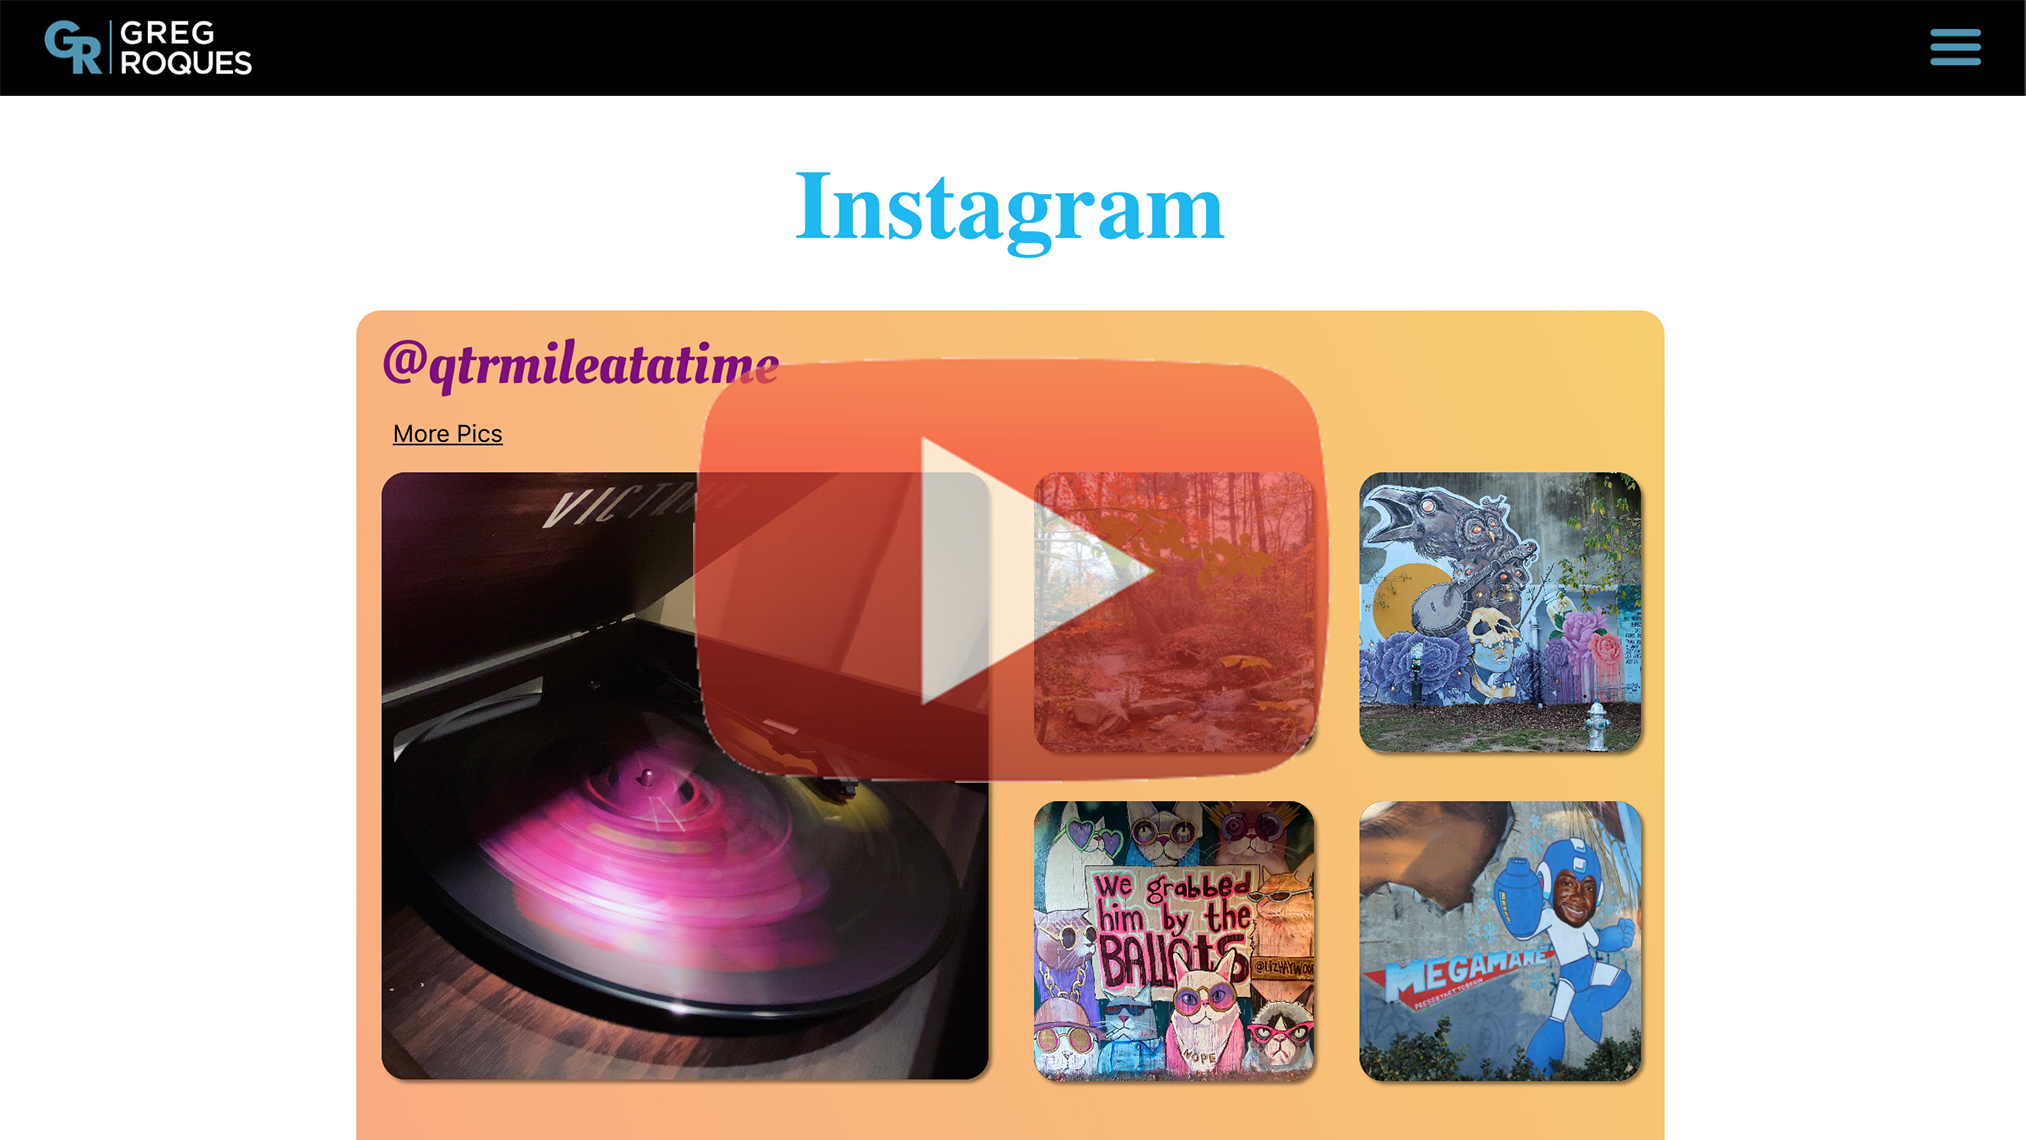
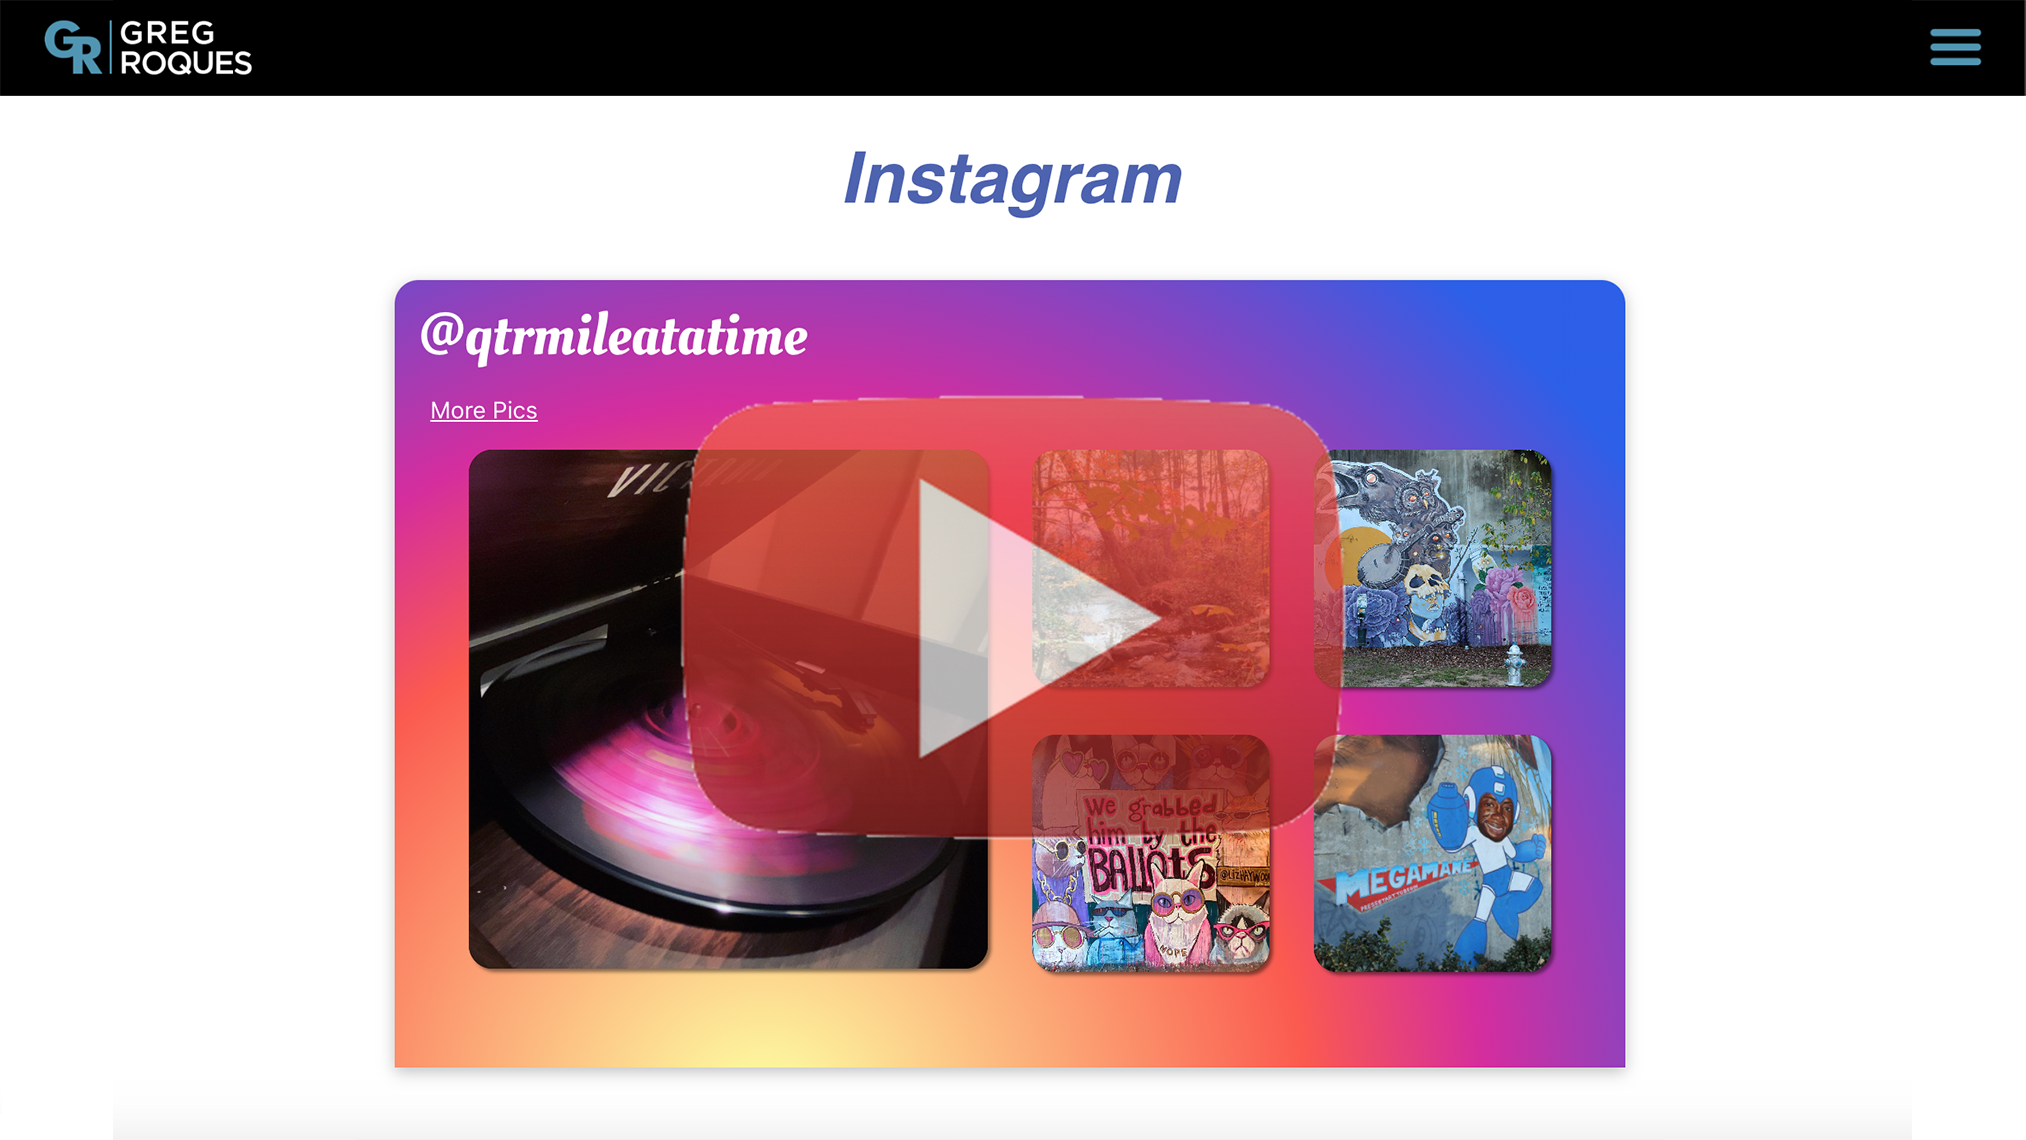
update

diff --git a/frontend/src/Components/InstaWidget/instaGallery.module.css b/frontend/src/Components/InstaWidget/instaGallery.module.css
@@ -39,12 +39,12 @@
     /* margin-bottom: .25rem; */
     padding: .5rem 0px .5rem 0px;
     /* color: #23408F; */
-    color: purple;
+    color: white;
 }
 
 .header a, .header a:focus, .header a:active{
     text-decoration: none;
-    color: purple;
+    color: white;
 }
 
 .postCount{
@@ -54,6 +54,7 @@
 
 .boldHover{
     cursor: pointer;
+    color: white;
     text-decoration: underline;
     -webkit-user-select: none; 
     -khtml-user-select: none; 
@@ -62,10 +63,12 @@
            user-select: none;
 }
 
+
 .container{
     width: 830px;
-    background-color: #FBAB7E;
-    background-image: linear-gradient(62deg, #FBAB7E 0%, #F7CE68 100%);
+    background: #4D95B4;
+    background: radial-gradient(circle at 30% 107%, #fdf497 0%, #fdf497 5%, #fd5949 45%,#d6249f 60%,#285AEB 90%);
+    box-shadow: 0px 3px 10px rgba(0,0,0,.25);
     padding: 0 1rem 2rem 1rem;
     border-radius: 1rem 1rem 0px 0px;
 }
@@ -430,10 +433,7 @@ img{
 .closeButton{
     color:white;
     font-size: 20px;
-    /* width:20px;
-    height: 20px; */
     font-weight:bold;
-    /* background-color: white; */
     border-radius: 5px;
     text-align: center;
     vertical-align: middle;

diff --git a/frontend/src/Components/Home/Technologies/About_Technologies.js b/frontend/src/Components/Home/Technologies/About_Technologies.js
@@ -8,19 +8,19 @@ export const mySkills = {
             'css3.png',
             'sass.png',
             'javascript.png',
-            'typescript.png',
-            "graphql.png"
+            'typescript.png'
         ]
     },
     backEnd: {  
         name: "Stack",
         tech: [
             'mysql.png',
+            "graphql.png",
             'express.png',
+            'nodejs.png',
             'react.png',
             'redux.png',
             'bootstrap.png',
-            'nodejs.png',
         ]
     },
     auxillary: {

diff --git a/frontend/src/Components/Home/Portfolio/Port_Dependencies.js b/frontend/src/Components/Home/Portfolio/Port_Dependencies.js
@@ -17,9 +17,8 @@ export const portfolioSamples =[
         name: `Wedding Album`,
         image: '/images/portfolioImages/urlshredder1.png',
         description: `MERN-stack Wedding Album site.`,
-        demo: `https://www.youtube.com/watch?v=Vc_ZWM41dnM&feature=youtu.be`,
+        demo: `https://www.youtube.com/watch?v=K-TWTt9kAvs&list=PLM2GdNHvfSCHPHRWbFlOst-EK8K4wkv5f&index=15`,
         readMe: 'https://github.com/GregRoques/URL-Shortener/blob/master/README.md'
 
     }
 ]
-

diff --git a/frontend/src/Components/Photography/photography.module.css b/frontend/src/Components/Photography/photography.module.css
@@ -3,6 +3,7 @@
     margin:2rem 0 3rem 0;
     text-align:center;
     overflow-y: hidden;
+    overflow-x:hidden;
     text-align: center;
   }
 
@@ -230,6 +231,7 @@
     justify-content: center;
     text-align:center;
     overflow-y:hidden;
+    overflow-x:hidden;
   }
 }
 

diff --git a/frontend/src/Components/Photography/Photography.jsx b/frontend/src/Components/Photography/Photography.jsx
@@ -83,7 +83,6 @@ class Photography extends Component {
           <div className={cssPhotography.errorText}>
               Sorry, we cannot load this content right now. Please try again later.
           </div>
-          <InstaGallery/>
         </div>
         
       }

diff --git a/backend/index.js b/backend/index.js
@@ -15,7 +15,7 @@ app.use(bodyParser.json());
 app.use(bodyParser.urlencoded({ extended: false }));
 
 
-app.use("/instagramImages", instaImages);
+// app.use("/instagramImages", instaImages);
 app.use("/photography", photography);
 app.use("/linkedIn", linkedIn);
 

diff --git a/frontend/src/Containers/Header/Header.jsx b/frontend/src/Containers/Header/Header.jsx
@@ -25,7 +25,7 @@ class Header extends Component {
                     isOpen: false,
                     isFadeOut: false
                 })
-            },500);
+            },200);
            
         } else{
             this.setState({

diff --git a/frontend/src/Containers/Header/hamburgerModal.module.css b/frontend/src/Containers/Header/hamburgerModal.module.css
@@ -31,7 +31,7 @@
 
 .modalPositionFadeOut{
     right:0px;
-    animation: slideOut .5s forwards;
+    animation: slideOut .2s forwards;
     border-radius: 25px 0px 0px 25px;
     background-color: white;
     height:100%;

diff --git a/frontend/src/Components/Media/Design.jsx b/frontend/src/Components/Media/Design.jsx
@@ -66,7 +66,6 @@ class Design extends Component{
                     testmonialIndex={1}
                 />
                 <Articles/>
-                <InstaGallery/>
             </div>
         )
     }

diff --git a/README.md b/README.md
@@ -20,10 +20,18 @@ Revamped personal website (www.GregRoques.com).
 - sendGripApi.js (sendGripApi key ... used to email me when Instagram key has almost expired)
 
 
+# Website Demo Video
 
-# Demo Video
-## Click image below to view video
+## New (Current) Website
 
-[![demo video](./frontend/public/ReadMeImages/readMe_main.png)](https://youtu.be/YhksUFOM09Q)
+[![demo video](./frontend/public/ReadMeImages/readMe_main.png)](https://youtu.be/mXTeQFUmI1E)
 
+## Previous Website
   
+[![Old Site Demo](./frontend/public/ReadMeImages/playVideo.png)](https://youtu.be/YhksUFOM09Q)
+
+**Link to previous website GitHub page:** https://github.com/GregRoques/Portfolio-Take-2
+
+# Instagram Video – How To
+
+[![Instagram Widget demo video](./frontend/public/ReadMeImages/readMe_Instagram.png)](https://youtu.be/wXMqwr-X6fI)
